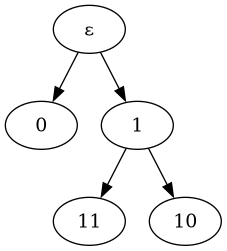
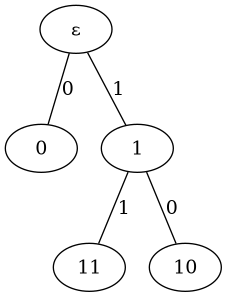
fix(tree code view): show label in edge

Changed region(s): [[0.0308, 0.0, 0.7709, 1.0], [0.6476, 0.6414, 0.9868, 1.0], [0.0, 0.4741, 0.0308, 0.5299]]

diff --git a/Coding-Theory/tree_code_view/main.py b/Coding-Theory/tree_code_view/main.py
@@ -39,8 +39,10 @@ def graph_tree(nodes: set[str], edges: set[tuple[str, str]], name: str = "tree")
 
     for a, b in edges:
         parent, child = (a,b) if len(a)<=len(b) else (b,a)
-        parent: str = "epsilon" if parent == "" else parent
-        dot.edge(parent, child)
+        if parent == "":
+            dot.edge("epsilon", child, label=child)
+        else:
+            dot.edge(parent, child, label=child[-1])
 
     dot.render(name, view=True)
 
